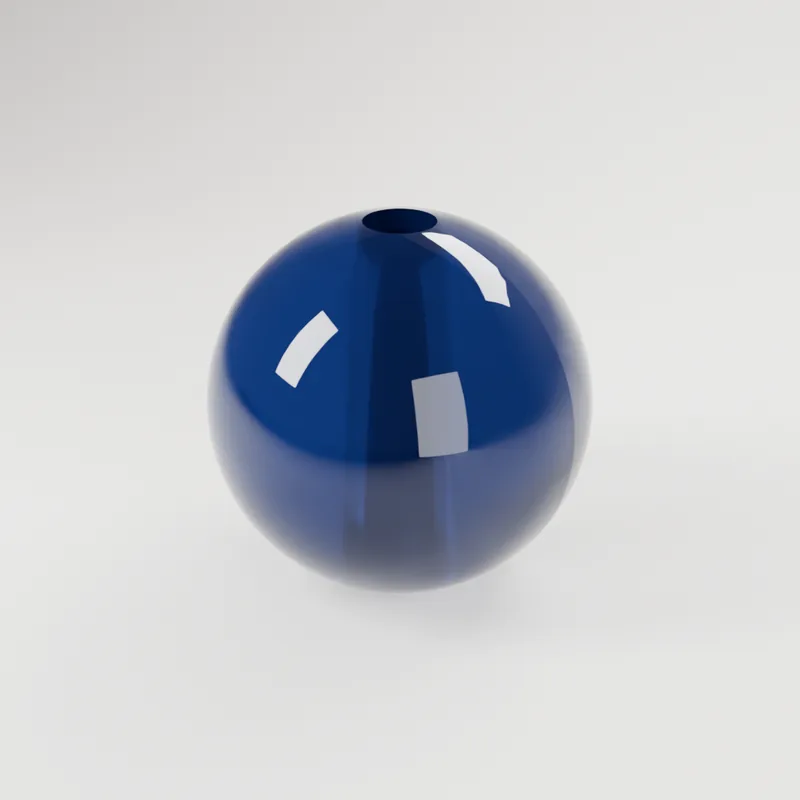
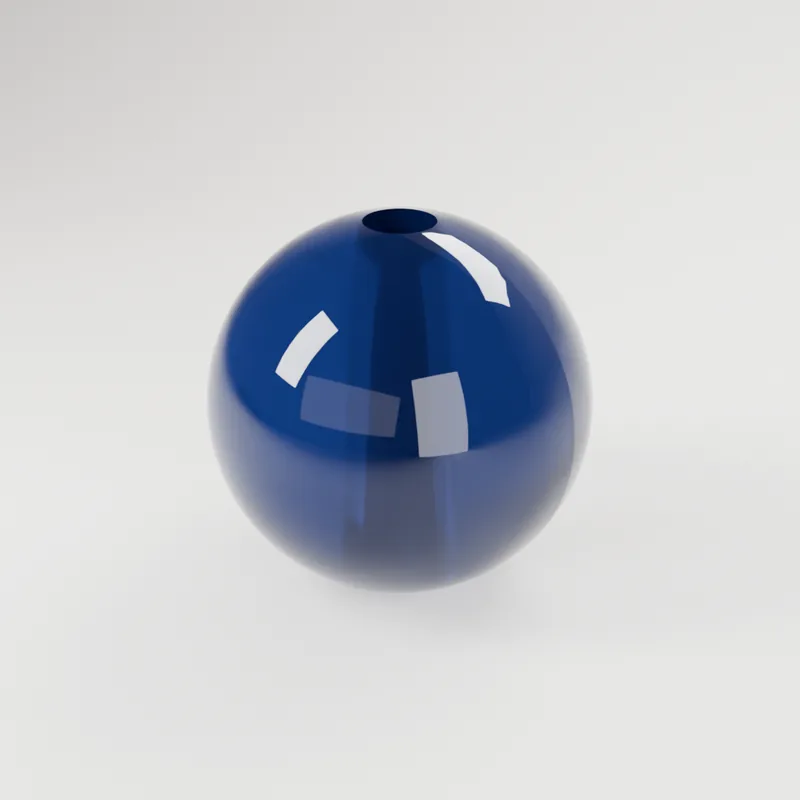
fix: metal renders get a soft gradient instead of a black band; the gallery is re-rendered
The floor in front of the product fades to a fifth of the backdrop color instead of black,
and a wide, dim card above the camera gives flat metal faces an even sheen. GB-1002 has
two facet rows like the other faceted beads (one row read as a prism). All eleven gallery
images are rendered again with this scene, with the initials' new loop position.

Changed region(s): [[0.375, 0.4688, 0.5, 0.5625]]

diff --git a/blender/render.py b/blender/render.py
@@ -198,8 +198,9 @@ def add_backdrop(color: tuple[float, float, float]) -> None:
     mesh = bpy.data.meshes.new("Backdrop")
     bm = bmesh.new()
     # Profile in the YZ plane: flat floor to y = 2, a quarter circle, then the wall. The
-    # camera sees the floor only to about y = -0.7; beyond that it fades to dark (below), so
-    # flat metal faces, which reflect the floor in front of them, get a soft gradient.
+    # camera sees the floor only to about y = -0.7; beyond that it fades to a mid tone
+    # (below), so flat metal faces, which reflect the floor in front of them, get a soft
+    # gradient. Fading to black gave them a harsh black-to-white band (QA 2026-11-23).
     radius, depth, height, half_width, steps = 3.0, 6.0, 8.0, 12.0, 16
     curve = [
         (2.0 + radius * math.sin(t), radius - radius * math.cos(t))
@@ -222,7 +223,7 @@ def add_backdrop(color: tuple[float, float, float]) -> None:
     links = material.node_tree.links
     bsdf = nodes["Principled BSDF"]
     bsdf.inputs["Roughness"].default_value = 0.9
-    # Base color: the backdrop color from y = -0.9 back, fading to near black at y = -3.5.
+    # Base color: the backdrop color from y = -0.9 back, fading to a fifth of it at y = -3.5.
     coords = nodes.new("ShaderNodeTexCoord")
     split = nodes.new("ShaderNodeSeparateXYZ")
     fade = nodes.new("ShaderNodeMapRange")
@@ -231,7 +232,7 @@ def add_backdrop(color: tuple[float, float, float]) -> None:
     fade.inputs["From Max"].default_value = -0.9
     mix = nodes.new("ShaderNodeMix")
     mix.data_type = "RGBA"
-    mix.inputs["A"].default_value = (0.01, 0.01, 0.01, 1.0)
+    mix.inputs["A"].default_value = (*(c * 0.18 for c in color), 1.0)
     mix.inputs["B"].default_value = (*color, 1.0)
     links.new(coords.outputs["Object"], split.inputs["Vector"])
     links.new(split.outputs["Y"], fade.inputs["Value"])
@@ -257,10 +258,12 @@ def add_area_light(
 
 
 def add_lights() -> None:
-    """Three soft boxes: key (front left, high), fill (front right, low), rim (behind)."""
+    """Three soft boxes: key (front left, high), fill (front right, low), rim (behind), and
+    a wide, dim card above the camera that a flat metal face mirrors as an even sheen."""
     add_area_light("Key", (-2.6, -2.8, 3.2), (1.4, 3.0), 420.0)
     add_area_light("Fill", (3.2, -2.4, 1.4), (2.0, 3.5), 160.0)
     add_area_light("Rim", (0.8, 2.6, 3.4), (3.0, 1.0), 260.0)
+    add_area_light("Card", (0.0, -5.5, 2.2), (6.0, 2.5), 70.0)
 
 
 def add_world(color: tuple[float, float, float]) -> None:

diff --git a/docs/gallery/README.md b/docs/gallery/README.md
@@ -4,11 +4,11 @@ Catalog renders made locally with the Bead Studio pipeline: CadQuery model, GLB,
 Blender Cycles (decisions 0003, 0006 and 0011). The online demo shows these images;
 renders run only on a machine with Blender. Rebuild with `scripts/build_gallery.py`.
 
-Generated 2026-11-18; images 800 px WebP.
+Generated 2026-11-23; images 800 px WebP.
 
 | | | |
 |---|---|---|
-| <img src="GB-1001_A_midnight_blue.webp" width="240" alt="Midnight Lagoon Round, Midnight Blue"><br>**GB-1001** Midnight Lagoon Round<br>Midnight Blue · 0.567 g | <img src="GB-1002_A_desert_sand.webp" width="240" alt="Desert Sand Faceted, Desert Sand"><br>**GB-1002** Desert Sand Faceted<br>Desert Sand · 1.167 g | <img src="GB-1017_A_opal_white.webp" width="240" alt="Morning Fog Lentil, Opal White"><br>**GB-1017** Morning Fog Lentil<br>Opal White · 0.904 g |
+| <img src="GB-1001_A_midnight_blue.webp" width="240" alt="Midnight Lagoon Round, Midnight Blue"><br>**GB-1001** Midnight Lagoon Round<br>Midnight Blue · 0.567 g | <img src="GB-1002_A_desert_sand.webp" width="240" alt="Desert Sand Faceted, Desert Sand"><br>**GB-1002** Desert Sand Faceted<br>Desert Sand · 0.792 g | <img src="GB-1017_A_opal_white.webp" width="240" alt="Morning Fog Lentil, Opal White"><br>**GB-1017** Morning Fog Lentil<br>Opal White · 0.904 g |
 | <img src="GB-1020_A_aqua.webp" width="240" alt="Sea Glass Rondelle, Aqua"><br>**GB-1020** Sea Glass Rondelle<br>Aqua · 0.186 g | <img src="GB-1034_A_honey.webp" width="240" alt="Honey Glow Faceted, Honey"><br>**GB-1034** Honey Glow Faceted<br>Honey · 0.792 g | <img src="GB-1034_A_ruby.webp" width="240" alt="Honey Glow Faceted, Ruby"><br>**GB-1034** Honey Glow Faceted<br>Ruby · 0.792 g |
 | <img src="CH-2004_A_antique_bronze.webp" width="240" alt="Crescent Moon & Star, Antique bronze"><br>**CH-2004** Crescent Moon & Star<br>Antique bronze · 0.989 g | <img src="CH-2004_A_gold_plate.webp" width="240" alt="Crescent Moon & Star, Gold plate"><br>**CH-2004** Crescent Moon & Star<br>Gold plate · 0.989 g | <img src="CH-2004_A_rhodium.webp" width="240" alt="Crescent Moon & Star, Rhodium"><br>**CH-2004** Crescent Moon & Star<br>Rhodium · 0.989 g |
-| <img src="CH-2014_A_rhodium.webp" width="240" alt="Block Initial (A-Z), Rhodium"><br>**CH-2014** Block Initial (A-Z)<br>Rhodium · 0.846 g | <img src="CH-2028_A_antique_bronze.webp" width="240" alt="Amber Leaf Disc, Antique bronze"><br>**CH-2028** Amber Leaf Disc<br>Antique bronze · 1.974 g |  |
+| <img src="CH-2014_A_rhodium.webp" width="240" alt="Block Initial (A-Z), Rhodium"><br>**CH-2014** Block Initial (A-Z)<br>Rhodium · 0.841 g | <img src="CH-2028_A_antique_bronze.webp" width="240" alt="Amber Leaf Disc, Antique bronze"><br>**CH-2028** Amber Leaf Disc<br>Antique bronze · 1.974 g |  |
